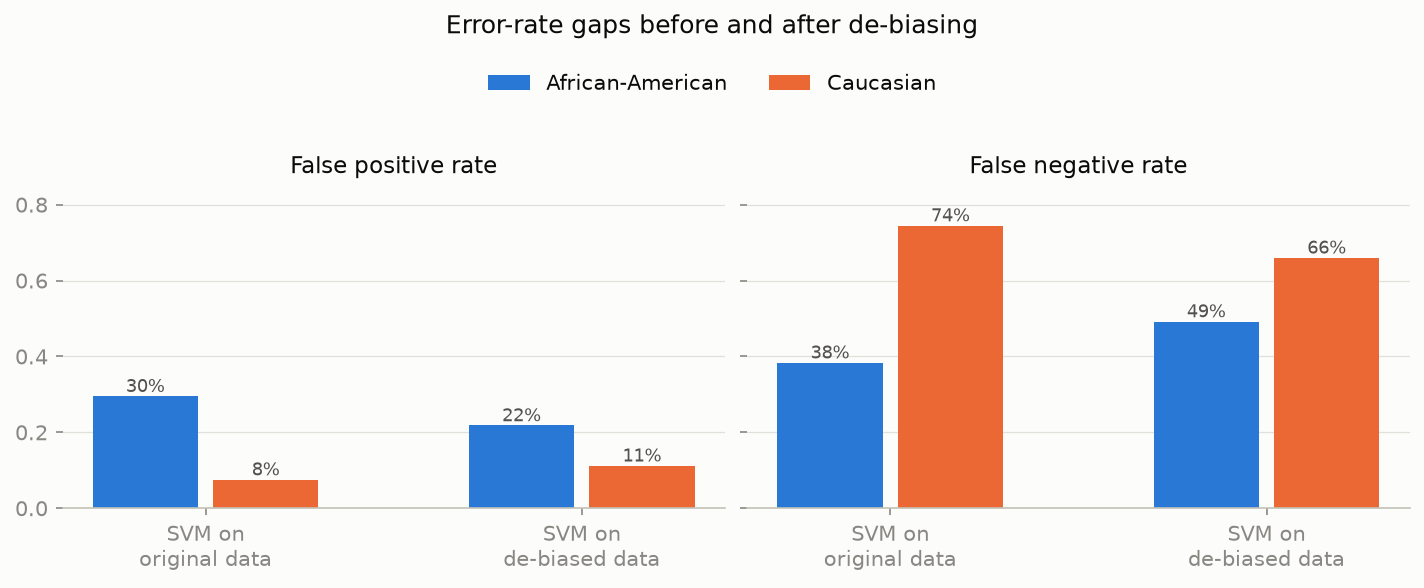
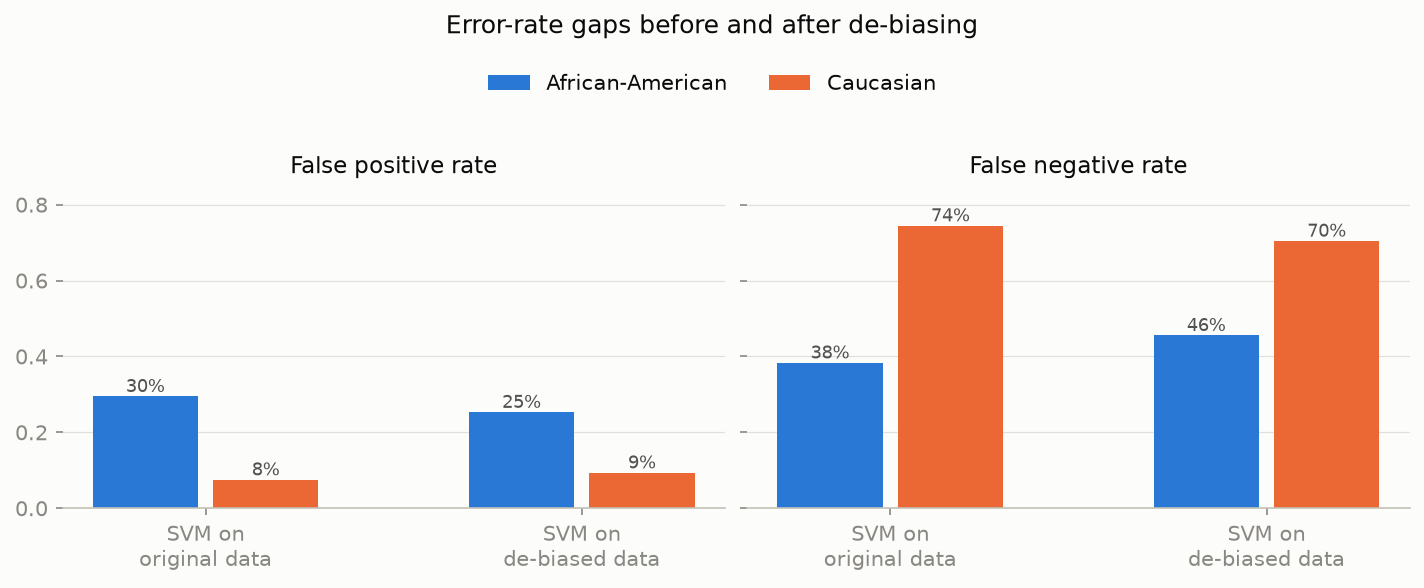
Adopt race-blind inference as canonical deployment for de-biased SVM
CorrelationRemover needs race to transform a row, so prediction time poses
a choice. Race-aware transforms give better group metrics (EOD 0.168) but
let a person's stated race move their score. Race-blind inference (raw
features, chosen) keeps accuracy at 65.3%, improves EOD 0.361 -> 0.249,
and makes suggestions provably invariant to race. Both variants are
documented in the report.

Claude-Session: https://claude.ai/code/session_01FrwmcEsbfShrgBDZToTXJP

diff --git a/scripts/05_debiased_model.py b/scripts/05_debiased_model.py
@@ -58,16 +58,31 @@ def main() -> None:
     svm_d = make_pipeline(StandardScaler(), SVC(kernel="rbf", C=1.0,
                                                 probability=True, random_state=42))
     svm_d.fit(train_d[FEATURES], train_d[TARGET])
-    pred_d = svm_d.predict(test_d[FEATURES])
-    acc_d = accuracy_score(test_d[TARGET], pred_d)
-    auc_d = roc_auc_score(test_d[TARGET], svm_d.predict_proba(test_d[FEATURES])[:, 1])
     joblib.dump(svm_d, MODELS_DIR / "svm_debiased.joblib")
+
+    # Canonical deployment is RACE-BLIND inference: the CorrelationRemover is a
+    # training-time intervention only, and at prediction time the model receives
+    # the raw (untransformed) features, which contain no race column. This makes
+    # the de-biased model invariant to race by construction (counterfactual
+    # fairness at the individual level) and means no protected attribute is
+    # needed at decision time. The race-aware alternative (transforming the
+    # incoming features with the person's race) is evaluated below for
+    # comparison; it yields better group metrics but lets a person's stated
+    # race move their individual score.
+    X_test_raw = common.build_features(test, include_race=False)[FEATURES]
+    pred_d = svm_d.predict(X_test_raw)
+    acc_d = accuracy_score(test[TARGET], pred_d)
+    auc_d = roc_auc_score(test[TARGET], svm_d.predict_proba(X_test_raw)[:, 1])
+
+    # race-aware variant (transform test features with the person's race)
+    pred_d_aware = svm_d.predict(test_d[FEATURES])
 
     # biased reference predictions on the same test rows
     svm_b = joblib.load(MODELS_DIR / "svm_biased.joblib")
     X_test_b = common.build_features(test)
     pred_b = svm_b.predict(X_test_b)
     acc_b = accuracy_score(test[TARGET], pred_b)
+    acc_d_aware = accuracy_score(test[TARGET], pred_d_aware)
 
     y_test = test[TARGET]
     race = test.race
@@ -81,6 +96,10 @@ def main() -> None:
                                           sensitive_features=race[mask])
     eod_d = equalized_odds_difference(y_test[mask], pred_d[mask],
                                       sensitive_features=race[mask])
+    dpd_d_aware = demographic_parity_difference(y_test[mask], pred_d_aware[mask],
+                                                sensitive_features=race[mask])
+    eod_d_aware = equalized_odds_difference(y_test[mask], pred_d_aware[mask],
+                                            sensitive_features=race[mask])
 
     mf_d = MetricFrame(
         metrics={"accuracy": accuracy_score, "selection rate": selection_rate,
@@ -127,6 +146,25 @@ def main() -> None:
 Identical architecture to the reference model (StandardScaler + RBF SVM,
 C=1.0), trained on the de-biased features from script 04. Race enters the
 pipeline only as an **audit attribute**.
+
+## Deployment decision: race-blind inference
+
+The CorrelationRemover needs the sensitive attribute to transform a row, which
+poses a choice for prediction time:
+
+| Deployment | Accuracy | Demographic parity diff. | Equalized odds diff. | Individual race-invariance |
+|------------|---------:|-------------------------:|---------------------:|:--:|
+| **Race-blind** (raw features at inference, chosen) | {acc_d:.1%} | {dpd_d:.3f} | {eod_d:.3f} | yes - exact |
+| Race-aware (transform with the person's race) | {acc_d_aware:.1%} | {dpd_d_aware:.3f} | {eod_d_aware:.3f} | no |
+
+The race-aware variant achieves better *group* fairness, but a person's stated
+race then moves their individual score - it breaks counterfactual fairness,
+requires collecting the protected attribute at decision time, and amounts to
+explicit differential treatment. We therefore deploy **race-blind**: the
+de-biasing is a training-time intervention (the model's *coefficients* were
+learned from race-neutralized data), and at prediction time the model never
+sees race, so flipping race provably cannot change any suggestion. All numbers
+below use race-blind inference.
 
 ## Performance
 

diff --git a/reports/05_debiased_model.md b/reports/05_debiased_model.md
@@ -4,12 +4,31 @@ Identical architecture to the reference model (StandardScaler + RBF SVM,
 C=1.0), trained on the de-biased features from script 04. Race enters the
 pipeline only as an **audit attribute**.
 
+## Deployment decision: race-blind inference
+
+The CorrelationRemover needs the sensitive attribute to transform a row, which
+poses a choice for prediction time:
+
+| Deployment | Accuracy | Demographic parity diff. | Equalized odds diff. | Individual race-invariance |
+|------------|---------:|-------------------------:|---------------------:|:--:|
+| **Race-blind** (raw features at inference, chosen) | 65.3% | 0.233 | 0.249 | yes - exact |
+| Race-aware (transform with the person's race) | 65.3% | 0.168 | 0.168 | no |
+
+The race-aware variant achieves better *group* fairness, but a person's stated
+race then moves their individual score - it breaks counterfactual fairness,
+requires collecting the protected attribute at decision time, and amounts to
+explicit differential treatment. We therefore deploy **race-blind**: the
+de-biasing is a training-time intervention (the model's *coefficients* were
+learned from race-neutralized data), and at prediction time the model never
+sees race, so flipping race provably cannot change any suggestion. All numbers
+below use race-blind inference.
+
 ## Performance
 
 | Model | Accuracy | ROC-AUC |
 |-------|---------:|--------:|
 | SVM, original data | 66.0% | 0.720 |
-| SVM, de-biased data | **65.3%** | **0.714** |
+| SVM, de-biased data | **65.3%** | **0.712** |
 
 De-biasing costs +0.6% accuracy - essentially within noise. The
 "fairness tax" on predictive performance is negligible here, consistent with
@@ -22,23 +41,23 @@ transformation.
 
 | Metric | SVM original | SVM de-biased |
 |--------|-------------:|--------------:|
-| FPR African-American | 29.5% | 21.8% |
-| FPR Caucasian | 7.6% | 11.2% |
-| **FPR gap** | **22.0%** | **10.6%** |
-| FNR African-American | 38.4% | 49.2% |
-| FNR Caucasian | 74.5% | 66.0% |
-| **FNR gap** | **36.1%** | **16.8%** |
-| Demographic parity difference | 0.317 | **0.168** |
-| Equalized odds difference | 0.361 | **0.168** |
+| FPR African-American | 29.5% | 25.3% |
+| FPR Caucasian | 7.6% | 9.4% |
+| **FPR gap** | **22.0%** | **16.0%** |
+| FNR African-American | 38.4% | 45.6% |
+| FNR Caucasian | 74.5% | 70.4% |
+| **FNR gap** | **36.1%** | **24.9%** |
+| Demographic parity difference | 0.317 | **0.233** |
+| Equalized odds difference | 0.361 | **0.249** |
 
 Full per-group metrics of the de-biased model:
 
 | Metric | African-American | Caucasian | Hispanic |
 |--------|----------------:|----------:|---------:|
-| Accuracy | 63.9% | 67.4% | 66.0% |
-| Selection rate | 37.0% | 20.1% | 28.1% |
-| False positive rate | 21.8% | 11.2% | 19.8% |
-| False negative rate | 49.2% | 66.0% | 57.9% |
+| Accuracy | 64.1% | 66.7% | 66.7% |
+| Selection rate | 40.5% | 17.3% | 26.1% |
+| False positive rate | 25.3% | 9.4% | 17.7% |
+| False negative rate | 45.6% | 70.4% | 59.6% |
 
 ## Reading the result honestly
 